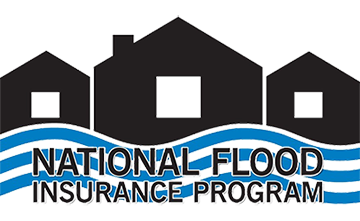
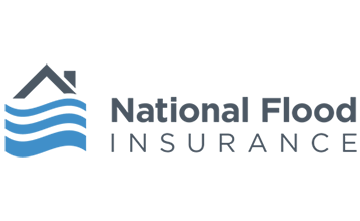
added more companies to listing:

diff --git a/CompaniesWeRepresent.html b/CompaniesWeRepresent.html
@@ -93,9 +93,12 @@
 <div class="container-sm">
     <h2 class='autoReq'>Companies We Represent</h2>
     <p class="autoReq">Here's a few of the companies we represent. Click on the image to visit their websites.</p>
+    <p class="autoReq">Companies listed in alphabetical order.</p>
 <br>
-
+<h3 class='homeIns'></h3>
 <div class="container">
+
+
     <div class="row">
         <div class="col-sm-6">
             <div class="card border-light">
@@ -107,7 +110,7 @@
         <div class="col-sm-6">
             <div class="card border-light">
             <div class="card-body">
-                <div class="col"><a href="https://www.empowerins.com/" target="_blank" ><img src="images/Companies/EmpowerLogo.png" width="auto" alt="Empower Insurance Logo"></div></a>
+                <div class="col"><a href="http://www.alliedtrustins.com/" target="_blank" ><img src="images/Companies/AlliedInsurance.png" width="auto" alt="Allied Trust Insurance Logo"></div></a>
             </div>
             </div>
         </div>
@@ -124,7 +127,7 @@
             <div class="col-sm-6">
                 <div class="card border-light">
                 <div class="card-body">
-                    <div class="col"><a href="https://www.foremost.com/" target="_blank" ><img src="images/Companies/Foremost.png" width="auto" alt="Foremost Insurance Logo"></div></a>
+                    <div class="col"><a href="https://www.columbialloyds.com/" target="_blank" ><img src="images/Companies/ColumbiaLloyds.png" width="auto" alt="ColumbiaLloyds Insurance Logo"></div></a>
                 </div>
                 </div>
             </div>
@@ -134,14 +137,14 @@
                 <div class="col-sm-6">
                     <div class="card border-light">
                     <div class="card-body">
-                        <div class="col"><a href="https://www.gainsco.com/" target="_blank" ><img src="images/Companies/Gainsco.png" width="auto" alt="Gainsco Insurance Logo"></div></a>
+                        <div class="col"><a href="https://cover.com/" target="_blank" ><img src="images/Companies/CoverInsurance.png" width="auto" alt="Cover Insurance Logo"></div></a>
                     </div>
                     </div>
                 </div>
                 <div class="col-sm-6">
                     <div class="card border-light">
                     <div class="card-body">
-                        <div class="col"><a href="https://www.progressive.com/" target="_blank" ><img src="images/Companies/Progressive.png" width="auto" alt="Progressive Insurance Logo"></div></a>
+                        <div class="col"><a href="https://www.empowerins.com/index.php" target="_blank" ><img src="images/Companies/EmpowerLogo.png" width="auto" alt="Empower Insurance Logo"></div></a>
                     </div>
                     </div>
                 </div>
@@ -151,19 +154,177 @@
                     <div class="col-sm-6">
                         <div class="card border-light">
                         <div class="card-body">
-                            <div class="col"><a href="https://www.safeco.com/" target="_blank" ><img src="images/Companies/Safeco.png" width="auto" alt="Safeco Insurance Logo"></div></a>
+                            <div class="col"><a href="https://www.foremost.com/" target="_blank" ><img src="images/Companies/Foremost.png" width="auto" alt="Foremost Insurance Logo"></div></a>
                         </div>
                         </div>
                     </div>
                     <div class="col-sm-6">
                         <div class="card border-light">
                         <div class="card-body">
-                            <div class="col"><a href="https://www.mercuryinsurance.com/" target="_blank" ><img src="images/Companies/MercuryInsurance.png" width="auto" alt="Progressive Insurance Logo"></div></a>
+                            <div class="col"><a href="https://www.gainsco.com/" target="_blank" ><img src="images/Companies/Gainsco.png" width="auto" alt="Gainsco Insurance Logo"></div></a>
                         </div>
                         </div>
                     </div>
                     </div>
+                    <div class="row">
+                        <div class="col-sm-6">
+                            <div class="card border-light">
+                            <div class="card-body">
+                                <div class="col"><a href="https://gosafeinsurance.com/" target="_blank" ><img src="images/Companies/GoInsurance.png" width="auto" alt="Go Insurance Logo"></div></a>
+                            </div>
+                            </div>
+                        </div>
+                        <div class="col-sm-6">
+                            <div class="card border-light">
+                            <div class="card-body">
+                                <div class="col"><a href="https://www.thehartford.com/aarp/flood-insurance" target="_blank" ><img src="images/Companies/HartfordFlood.png" width="auto" alt="The Hartford Flood Insurance Logo"></div></a>
+                            </div>
+                            </div>
+                        </div>
+                        </div>
+                
+                        <div class="row">
+                            <div class="col-sm-6">
+                                <div class="card border-light">
+                                <div class="card-body">
+                                    <div class="col"><a href="https://www.hippo.com/" target="_blank" ><img src="images/Companies/HippoInsurance.png" width="auto" alt="Hippo West Insurance Logo"></div></a>
+                                </div>
+                                </div>
+                            </div>
+                            <div class="col-sm-6">
+                                <div class="card border-light">
+                                <div class="card-body">
+                                    <div class="col"><a href="https://www.kemper.com/" target="_blank" ><img src="images/Companies/KemperInsurance.png" width="auto" alt="Kemper Insurance Logo"></div></a>
+                                </div>
+                                </div>
+                            </div>
+                            </div>
+                
+                            <div class="row">
+                                <div class="col-sm-6">
+                                    <div class="card border-light">
+                                    <div class="card-body">
+                                        <div class="col"><a href="https://www.libertymutual.com/" target="_blank" ><img src="images/Companies/LibertyMutual.png" width="auto" alt="Liberty Mutual Insurance Logo"></div></a>
+                                    </div>
+                                    </div>
+                                </div>
+                                <div class="col-sm-6">
+                                    <div class="card border-light">
+                                    <div class="card-body">
+                                        <div class="col"><a href="https://www.lighthouse.insurance/" target="_blank" ><img src="images/Companies/LighthouseInsurance.jpg.png" width="auto" alt="Lighthouse Insurance Logo"></div></a>
+                                    </div>
+                                    </div>
+                                </div>
+                                </div>
+                
+                                <div class="row">
+                                    <div class="col-sm-6">
+                                        <div class="card border-light">
+                                        <div class="card-body">
+                                            <div class="col"><a href="https://www.mercuryinsurance.com/" target="_blank" ><img src="images/Companies/MercuryInsurance.png" width="auto" alt="Mercury Insurance Logo"></div></a>
+                                        </div>
+                                        </div>
+                                    </div>
+                                    <div class="col-sm-6">
+                                        <div class="card border-light">
+                                        <div class="card-body">
+                                            <div class="col"><a href="https://nationalfloodinsurance.org/" target="_blank" ><img src="images/Companies/NationalFlood.png" width="auto" alt="National Flood Insurance Logo"></div></a>
+                                        </div>
+                                        </div>
+                                    </div>
+                                    </div>
+
+                                    <div class="row">
+                                        <div class="col-sm-6">
+                                            <div class="card border-light">
+                                            <div class="card-body">
+                                                <div class="col"><a href="https://nationalgeneral.com/" target="_blank" ><img src="images/Companies/NationalGeInsurance.png" width="auto" alt="National General Insurance Logo"></div></a>
+                                            </div>
+                                            </div>
+                                        </div>
+                                        <div class="col-sm-6">
+                                            <div class="card border-light">
+                                            <div class="card-body">
+                                                <div class="col"><a href="https://www.nextinsurance.com/" target="_blank" ><img src="images/Companies/NextInsurance.png" width="auto" alt="Next Insurance Logo"></div></a>
+                                            </div>
+                                            </div>
+                                        </div>
+                                        </div>
+                            
+                                        <div class="row">
+                                            <div class="col-sm-6">
+                                                <div class="card border-light">
+                                                <div class="card-body">
+                                                    <div class="col"><a href="https://www.occidentalins.com" target="_blank" ><img src="images/Companies/OccidentalInsurance.png" width="auto" alt="Occidental Insurance Logo"></div></a>
+                                                </div>
+                                                </div>
+                                            </div>
+                                            <div class="col-sm-6">
+                                                <div class="card border-light">
+                                                <div class="card-body">
+                                                    <div class="col"><a href="https://www.progressive.com/" target="_blank" ><img src="images/Companies/Progressive.png" width="auto" alt="Progressive Insurance Logo"></div></a>
+                                                </div>
+                                                </div>
+                                            </div>
+                                            </div>
+                            
+                                            <div class="row">
+                                                <div class="col-sm-6">
+                                                    <div class="card border-light">
+                                                    <div class="card-body">
+                                                        <div class="col"><a href="https://www.safeco.com/" target="_blank" ><img src="images/Companies/Safeco.png" width="auto" alt="Safeco Insurance Logo"></div></a>
+                                                    </div>
+                                                    </div>
+                                                </div>
+                                                <div class="col-sm-6">
+                                                    <div class="card border-light">
+                                                    <div class="card-body">
+                                                        <div class="col"><a href="https://www.swyfft.com/" target="_blank" ><img src="images/Companies/SwiftInsurance.png" width="auto" alt="Swyfft Insurance Logo"></div></a>
+                                                    </div>
+                                                    </div>
+                                                </div>
+
+                                                </div>
+                                                <div class="row">
+                                                    <div class="col-sm-6">
+                                                        <div class="card border-light">
+                                                        <div class="card-body">
+                                                            <div class="col"><a href="https://www.twia.org/" target="_blank" ><img src="images/Companies/TexasWindstorm.png" width="auto" alt="Texas Wind Insurance Logo"></div></a>
+                                                        </div>
+                                                        </div>
+                                                    </div>
+                                                    <div class="col-sm-6">
+                                                        <div class="card border-light">
+                                                        <div class="card-body">
+                                                            <div class="col"><a href="https://www.upcinsurance.com/" target="_blank" ><img src="images/Companies/UPCInsurance.png" width="auto" alt="UPC Insurance Logo"></div></a>
+                                                        </div>
+                                                        </div>
+                                                    </div>
+                                                    </div>
+                                    
+                                                    <div class="row">
+                                                        <div class="col-sm-6">
+                                                            <div class="card border-light">
+                                                            <div class="card-body">
+                                                                <div class="col"><a href="https://weston-ins.com/" target="_blank" ><img src="images/Companies/WestonInsurance.jpg" width="auto" alt="Weston Insurance Logo"></div></a>
+                                                            </div>
+                                                            </div>
+                                                        </div>
+                                                        <div class="col-sm-6">
+                                                            <div class="card border-light">
+                                                            <div class="card-body">
+                                                                <div class="col"><a href="http://www.wrightflood.com/" target="_blank" ><img src="images/Companies/WrightFloodInsurance.png" width="auto" alt="Wright Flood Insurance Logo"></div></a>
+                                                            </div>
+                                                            </div>
+                                                        </div>
+        
+                                                        </div>
+                    
     </div>
+
+
+
+
 </div>
 
 

diff --git a/index.html b/index.html
@@ -44,7 +44,7 @@
             </button>
             </div> 
             <a class="nav-link phoneNumber" id="phoneNumber">Main: <i class="fas fa-phone-alt">  (832) 645-5100</i></a>
-            <p class="nav-link phoneNumber" id="phoneNumber"><i class="fas fa-phone-alt">  979-282-5500</i></a></p>
+            <a class="nav-link phoneNumber" id="phoneNumber"><i class="fas fa-phone-alt">  (979) 282-5500</i></a>
             <div class="spanish">
                 <p class><h5>Se Habla Español</h5></p></div>
             
